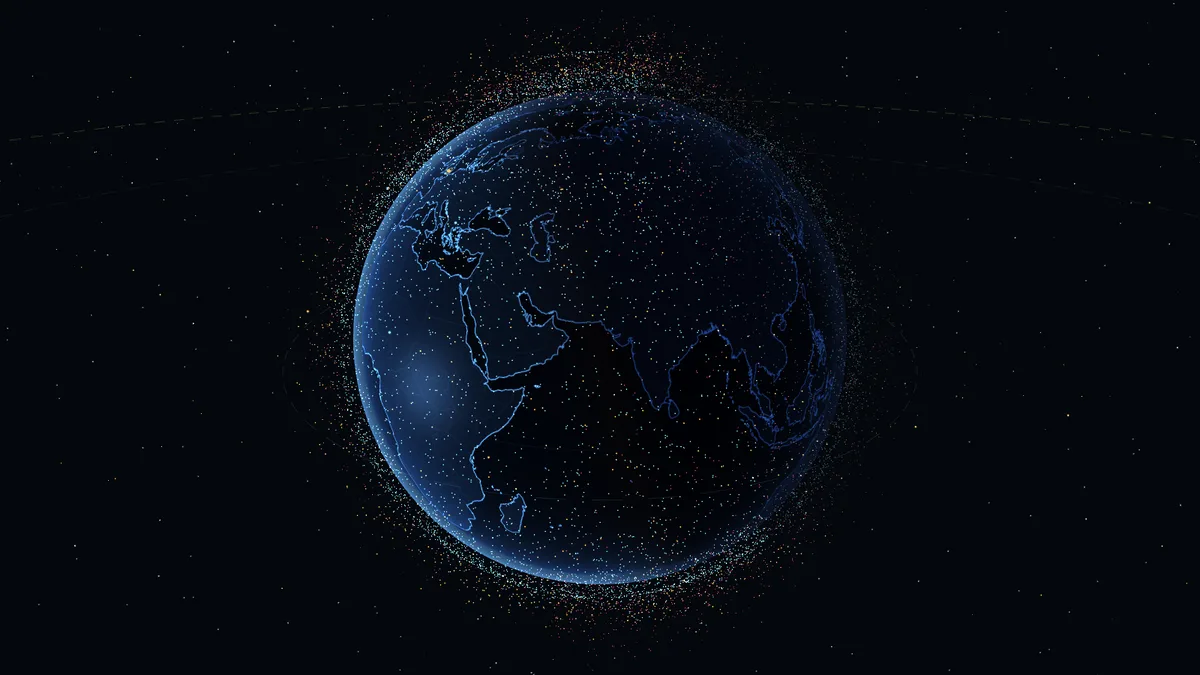
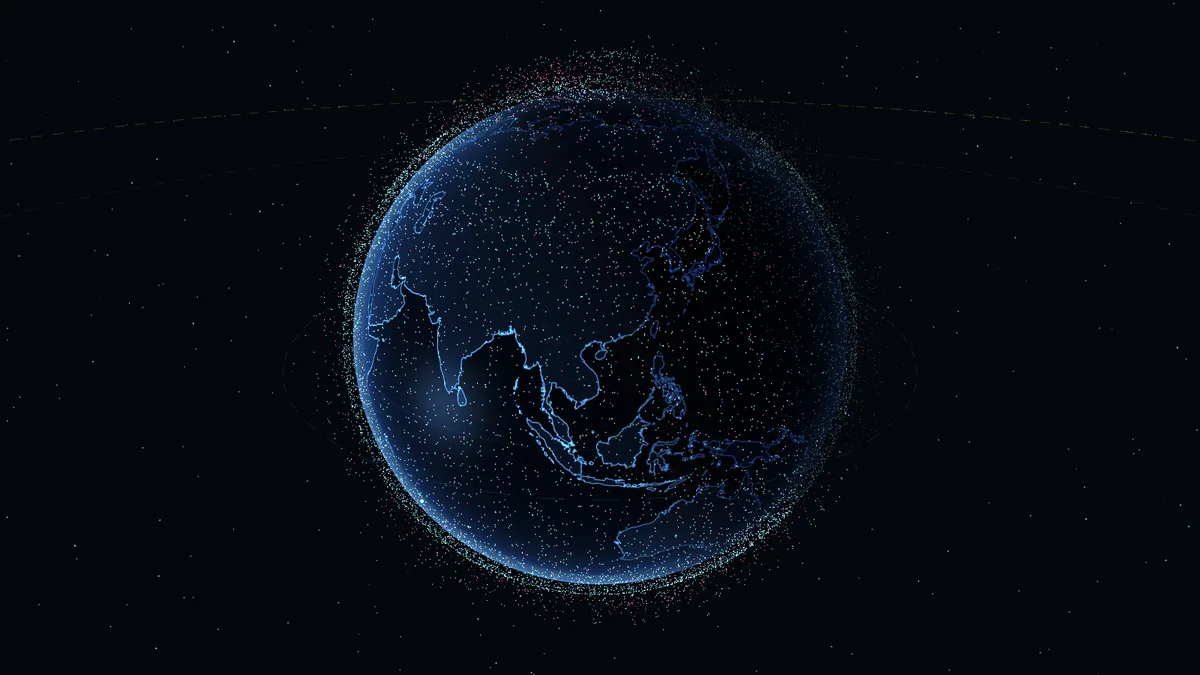
Orbit Census: fix SATCAT fetch, real-data polish
The first live deploys built 19,717 objects but every SATCAT download failed
with HTTP 406: CelesTrak refuses Accept: text/csv. The build now sends */*,
which returns the 6.8 MB catalogue (checked by hand: 71,323 rows, 35,197 on
orbit).

Fixes found by rendering the real catalogue:
- Close approaches skip pairs moving under 10 m/s relative to each other;
  the ISS modules have separate catalogue entries and filled the list as
  0.0 km approaches.
- China's Guowang satellites are named HULIANWANG; added, plus O3b mPOWER
  and Rassvet as megaconstellation families.
- Over you moves into the left column (it overlapped Colour by at 900 px
  tall) and gains a city picker, since geolocation is often refused.
- Radar size reads 'not published' where SATCAT has none (most rows now).
- Debris points slightly larger; history.replaceState guarded for sandboxed
  frames in both demos.
- Thumbnail re-shot from real data.

Claude-Session: https://claude.ai/code/session_013B6jEDLpx6BTUYVgj3vHxc

Changed region(s): [[0.2775, 0.0622, 0.7092, 0.9333]]

diff --git a/demos/orbit-census/src/main.js b/demos/orbit-census/src/main.js
@@ -233,7 +233,7 @@ function isVisible(it) {
   if (S.hidden.has(mode.of(it))) return false;
   return true;
 }
-const SIZE = { PAY: 1, 'R/B': 1.2, DEB: 0.78, UNK: 0.8 };
+const SIZE = { PAY: 1, 'R/B': 1.2, DEB: 0.95, UNK: 0.8 };
 function applyFilter() {
   if (!S.swarm) return;
   const mode = COLOR_MODES[S.color]; const cats = mode.cats(); const cmap = new Map(cats.map((c) => [c.id, hexToRgb(c.color)]));
@@ -297,7 +297,7 @@ function renderFacts() {
   const it = S.items[S.sel]; if (!it) return;
   const age = (S.simT - it.epoch);
   const yrs = it.launch ? ((Date.now() - Date.parse(it.launch)) / (365.25 * DAY)) : null;
-  const rcs = it.rcs == null ? '—' : `${it.rcs < 0.1 ? it.rcs.toFixed(3) : it.rcs.toFixed(2)} m² · ${it.rcs < 0.1 ? 'small' : it.rcs < 1 ? 'medium' : 'large'}`;
+  const rcs = it.rcs == null ? 'not published' : `${it.rcs < 0.1 ? it.rcs.toFixed(3) : it.rcs.toFixed(2)} m² · ${it.rcs < 0.1 ? 'small' : it.rcs < 1 ? 'medium' : 'large'}`;
   const grp = GROUPS.find((g) => g.id === it.group)?.label || it.group;
   const rows = [
     ['NORAD id', it.norad], ['COSPAR id', it.cospar || '—'], ['Owner', ownerName(it.owner)],
@@ -380,13 +380,28 @@ function overhead() {
   ol.innerHTML = list.slice(0, 5).map(([it, el, d]) => `<li data-i="${it.i}"><b>${it.name}</b><span>${Math.round(el)}° · ${n0(d)} km</span></li>`).join('') || '<li><span>Nothing in the shown set is up</span></li>';
   $$('#overList li[data-i]').forEach((li) => li.addEventListener('click', () => select(+li.dataset.i)));
 }
+const CITIES = [
+  ['London', 51.5074, -0.1278], ['Edinburgh', 55.9533, -3.1883], ['Dublin', 53.3498, -6.2603], ['Paris', 48.8566, 2.3522],
+  ['Berlin', 52.52, 13.405], ['New York', 40.7128, -74.006], ['Los Angeles', 34.0522, -118.2437], ['Cape Canaveral', 28.3922, -80.6077],
+  ['São Paulo', -23.5505, -46.6333], ['Cape Town', -33.9249, 18.4241], ['Nairobi', -1.2921, 36.8219], ['Mumbai', 19.076, 72.8777],
+  ['Singapore', 1.3521, 103.8198], ['Beijing', 39.9042, 116.4074], ['Tokyo', 35.6762, 139.6503], ['Sydney', -33.8688, 151.2093],
+  ['Auckland', -36.8485, 174.7633], ['Reykjavík', 64.1466, -21.9426],
+];
+{
+  const sel = $('#obsCity');
+  sel.innerHTML = CITIES.map((c, i) => `<option value="${i}">${c[0]}</option>`).join('');
+  sel.addEventListener('change', () => {
+    const c = CITIES[+sel.value]; S.obs = { lat: c[1], lon: c[2], h: 20, name: c[0] };
+    globe.setObserver(S.obs.lat, S.obs.lon); $('#locBtn').textContent = 'My location'; overhead(); requestTrack();
+  });
+}
 $('#locBtn').addEventListener('click', () => {
   if (!navigator.geolocation) return;
   $('#locBtn').textContent = 'Locating…';
   navigator.geolocation.getCurrentPosition((p) => {
     S.obs = { lat: p.coords.latitude, lon: p.coords.longitude, h: p.coords.altitude || 0, name: 'your location' };
-    globe.setObserver(S.obs.lat, S.obs.lon); $('#locBtn').textContent = 'Using your location'; overhead(); requestTrack();
-  }, () => { $('#locBtn').textContent = 'Location unavailable'; }, { timeout: 10000, maximumAge: 600000 });
+    globe.setObserver(S.obs.lat, S.obs.lon); $('#locBtn').textContent = 'Using yours'; overhead(); requestTrack();
+  }, () => { $('#locBtn').textContent = 'Not available'; }, { timeout: 10000, maximumAge: 600000 });
 });
 
 // ---------------------------------------------------------------------------
@@ -551,7 +566,7 @@ function syncUrl() {
   if (S.warp !== 1) u.set('warp', S.warp);
   if (S.frame !== 'eci') u.set('frame', S.frame);
   for (const k of ['clean', 'q']) if (q.has(k)) u.set(k, q.get(k));
-  const s = u.toString(); history.replaceState(null, '', s ? `?${s}` : location.pathname);
+  const s = u.toString(); try { history.replaceState(null, '', s ? `?${s}` : location.pathname); } catch { /* sandboxed frame */ }
 }
 
 // ---------------------------------------------------------------------------

diff --git a/demos/orbit-census/styles.css b/demos/orbit-census/styles.css
@@ -67,7 +67,7 @@ code { font-family: var(--mono); font-size: 11px; color: var(--acc); }
 .ch.sub { margin: 10px 0 6px; }
 .col { position: fixed; top: 84px; z-index: 5; display: grid; gap: 8px; align-content: start; max-height: calc(100vh - 84px - 120px); overflow-y: auto; scrollbar-width: none; }
 .col::-webkit-scrollbar { display: none; }
-.col.left { left: 14px; width: 244px; }
+.col.left { left: 14px; width: 244px; max-height: calc(100vh - 84px - 104px); }
 .col.right { right: 14px; width: 276px; max-height: calc(100vh - 84px - 40px); }
 .col .card, .obs { padding: 10px 11px; }
 .note { font-size: 7.5px; color: var(--mute); margin: 7px 0 0; line-height: 1.5; letter-spacing: .06em; }
@@ -133,7 +133,6 @@ code { font-family: var(--mono); font-size: 11px; color: var(--acc); }
 .conj li.dim { color: var(--mute); cursor: default; }
 
 /* observer */
-.obs { position: fixed; left: 14px; bottom: 96px; width: 244px; z-index: 5; }
 .obsrow { display: flex; align-items: baseline; gap: 8px; }
 .obsrow strong { font: 800 24px/1 var(--tight); font-variant-numeric: tabular-nums; }
 .obsrow span { font-size: 7.5px; color: var(--mute); }
@@ -142,6 +141,10 @@ code { font-family: var(--mono); font-size: 11px; color: var(--acc); }
 .over li { display: grid; grid-template-columns: 1fr auto; gap: 6px; cursor: pointer; padding: 2px 3px; border-radius: 2px; }
 .over li:hover { background: rgba(255,209,102,.1); }
 .over li span { color: var(--mute); }
+.obsctl { display: flex; gap: 4px; align-items: center; }
+.obsctl label { font-size: 7.5px; color: var(--mute); }
+#obsCity { flex: 1; min-width: 0; min-height: 24px; font: 600 8px var(--mono); letter-spacing: .06em; color: var(--ink); background: rgba(255,255,255,.03); border: 1px solid rgba(150,185,220,.22); border-radius: 2px; padding: 3px 4px; }
+#obsCity:focus { outline: 1px solid var(--acc); }
 
 /* lens story */
 .story { position: fixed; left: 276px; bottom: 100px; z-index: 4; max-width: 430px; pointer-events: none; text-shadow: 0 1px 12px rgba(0,0,0,.8); }
@@ -181,9 +184,8 @@ body.clean .topbar, body.clean .col, body.clean .obs, body.clean .story, body.cl
 @media (max-width: 1360px) { .meta > div:nth-child(2) { display: none; } .story { display: none; } }
 @media (max-width: 1180px) {
   .timebar { width: calc(100vw - 28px); min-width: 0; left: 14px; transform: none; flex-wrap: wrap; }
-  .obs { display: none; }
   .col { max-height: calc(100vh - 84px - 150px); }
-  .col.right { max-height: calc(100vh - 84px - 150px); }
+  .col.left, .col.right { max-height: calc(100vh - 84px - 150px); }
 }
 @media (max-width: 900px) {
   .meta { display: none; }

diff --git a/demos/orbit-census/index.html b/demos/orbit-census/index.html
@@ -71,6 +71,12 @@
     <input id="search" class="mono" type="search" placeholder="Name or NORAD id · ISS, 25544" autocomplete="off" spellcheck="false" />
     <ol class="results" id="results"></ol>
   </section>
+    <section class="card obs" id="cObs">
+    <div class="ch"><b>Over you</b><span>08</span></div>
+    <div class="obsrow"><strong id="obsCount">0</strong><span class="mono">above 10° from <em id="obsName">London</em></span></div>
+    <ol class="mono over" id="overList"></ol>
+    <div class="obsctl"><label class="mono" for="obsCity">From</label><select id="obsCity" class="mono"></select><button class="mono" id="locBtn">My location</button></div>
+  </section>
 </aside>
 
 <aside class="col right" id="colRight">
@@ -102,16 +108,10 @@
   <section class="card" id="cConj">
     <div class="ch"><b>Close approaches now</b><span>07</span></div>
     <ol class="conj mono" id="conj"><li class="dim">Screening…</li></ol>
-    <p class="note mono">Across the whole catalogue: pairs from different launches under 25 km apart at this instant. A distance screen, not a collision probability.</p>
+    <p class="note mono">Across the whole catalogue: pairs from different launches under 25 km apart at this instant, leaving out docked and formation-flying pairs. A distance screen, not a collision probability.</p>
   </section>
 </aside>
 
-<section class="card obs" id="cObs">
-  <div class="ch"><b>Over you</b><span>08</span></div>
-  <div class="obsrow"><strong id="obsCount">0</strong><span class="mono">above 10° from <em id="obsName">London</em></span></div>
-  <ol class="mono over" id="overList"></ol>
-  <button class="mono" id="locBtn">Use my location</button>
-</section>
 
 <section class="story" id="story" aria-live="polite">
   <span class="mono" id="storyK">Lens</span>

diff --git a/demos/orbit-census/src/classify.js b/demos/orbit-census/src/classify.js
@@ -22,7 +22,9 @@ export const FAMILIES = [
   { id: 'oneweb', label: 'OneWeb', re: /^ONEWEB/, color: '#b98cff' },
   { id: 'kuiper', label: 'Kuiper', re: /^KUIPER/, color: '#ffb347' },
   { id: 'qianfan', label: 'Qianfan', re: /^(QIANFAN|G60)/, color: '#ff6b8b' },
-  { id: 'guowang', label: 'Guowang', re: /^(GUOWANG|SATNET)/, color: '#ff8f5a' },
+  { id: 'guowang', label: 'Guowang', re: /^(GUOWANG|SATNET|HULIANWANG)/, color: '#ff8f5a' },
+  { id: 'o3b', label: 'O3b mPOWER', re: /^O3B/, color: '#8fe0ff' },
+  { id: 'rassvet', label: 'Rassvet', re: /^RASSVET/, color: '#ffcf8f' },
   { id: 'iridium', label: 'Iridium', re: /^IRIDIUM(?!.*DEB)/, color: '#7cf0b4' },
   { id: 'globalstar', label: 'Globalstar', re: /^GLOBALSTAR/, color: '#e6e27a' },
   { id: 'orbcomm', label: 'Orbcomm', re: /^ORBCOMM/, color: '#9fb4c8' },
@@ -37,7 +39,7 @@ export const FAMILIES = [
   { id: 'stations', label: 'Stations and crew', re: /^(ISS|CSS|TIANHE|WENTIAN|MENGTIAN|SOYUZ|PROGRESS|SHENZHOU|TIANZHOU|CREW DRAGON|DRAGON|CYGNUS|STARLINER|HTV)/, color: '#ffffff' },
 ];
 export const NAV = new Set(['gps', 'glonass', 'galileo', 'beidou', 'qzss', 'navic']);
-export const MEGA = new Set(['starlink', 'oneweb', 'kuiper', 'qianfan', 'guowang', 'iridium', 'globalstar', 'orbcomm']);
+export const MEGA = new Set(['starlink', 'oneweb', 'kuiper', 'qianfan', 'guowang', 'o3b', 'rassvet', 'iridium', 'globalstar', 'orbcomm']);
 
 export function family(name) {
   const n = String(name).toUpperCase();

diff --git a/demos/orbit-census/src/worker.js b/demos/orbit-census/src/worker.js
@@ -124,7 +124,10 @@ function conj(pv, ok, lim = 25) {
         if (cospar[i] && cospar[i] === cospar[j]) continue; // same launch: trains, stacks, one cloud
         const p = j * 6;
         const d = Math.hypot(pv[o] - pv[p], pv[o + 1] - pv[p + 1], pv[o + 2] - pv[p + 2]) * 1000;
-        if (d < lim) pairs.push([i, j, d, Math.hypot(pv[o + 3] - pv[p + 3], pv[o + 4] - pv[p + 4], pv[o + 5] - pv[p + 5]) * 1000]);
+        if (d >= lim) continue;
+        const vr = Math.hypot(pv[o + 3] - pv[p + 3], pv[o + 4] - pv[p + 4], pv[o + 5] - pv[p + 5]) * 1000;
+        if (vr < 0.01) continue; // under 10 m/s apart: docked or formation flying, not an approach
+        pairs.push([i, j, d, vr]);
       }
     }
   }

diff --git a/demos/planet-teardown/src/main.js b/demos/planet-teardown/src/main.js
@@ -453,7 +453,7 @@ function syncUrl() {
   const u = new URLSearchParams();
   u.set('p', P.id); if (S.mode !== 'surface') u.set('mode', S.mode); if (S.accent !== 'lime') u.set('accent', S.accent);
   for (const k of ['clean', 'notour', 'q']) if (q.has(k)) u.set(k, q.get(k));
-  history.replaceState(null, '', `?${u}`);
+  try { history.replaceState(null, '', `?${u}`); } catch { /* sandboxed frame */ }
 }
 
 // ---------------------------------------------------------------------------

diff --git a/demos/orbit-census/DESIGN.md b/demos/orbit-census/DESIGN.md
@@ -52,5 +52,12 @@ the real Sun for the sim time.
 
 ## Thumbnail
 
-The card image was captured from a local run with stand-in orbits (CelesTrak is not
-reachable from the build sandbox). The live page only ever shows real catalogue data.
+Captured on 15 Nov 2026 from a real CelesTrak build (19,716 objects), with labels hidden.
+
+## Notes from the first live builds
+
+- CelesTrak answers `satcat.csv` with HTTP 406 to `Accept: text/csv`; the build now sends `*/*`.
+- Close approaches leave out pairs moving under 10 m/s relative to each other: the ISS modules
+  have separate catalogue entries and otherwise filled the list as "0.0 km" approaches.
+- Most SATCAT rows no longer carry a radar cross-section, so the object card says "not published".
+- Running the build script locally behind a proxy needs `NODE_USE_ENV_PROXY=1` (Node 22+).
